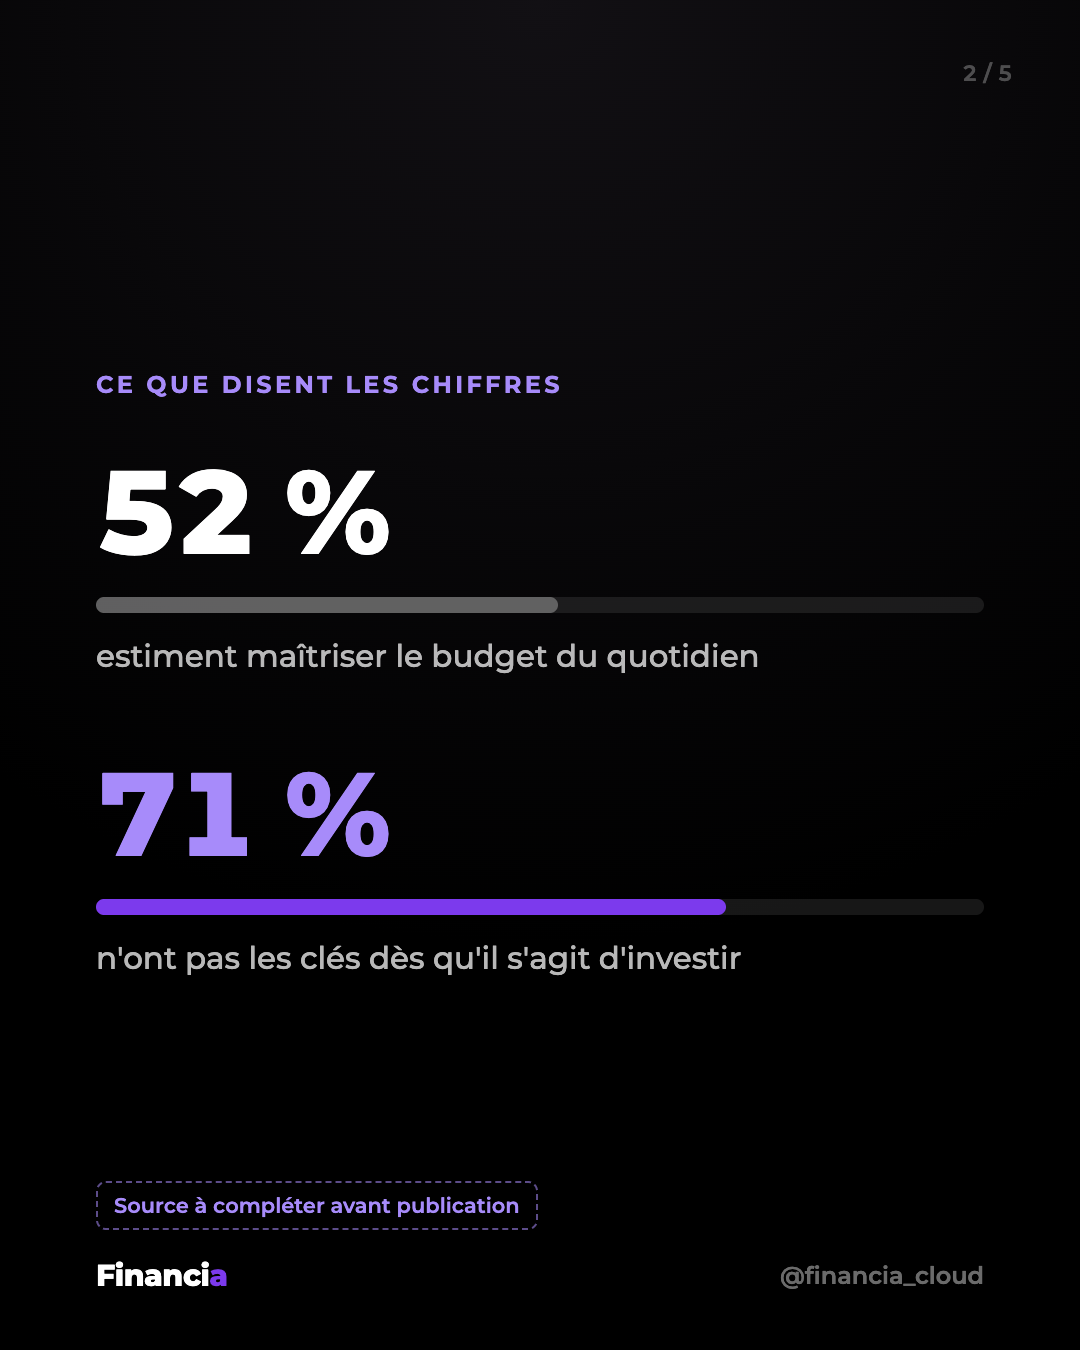
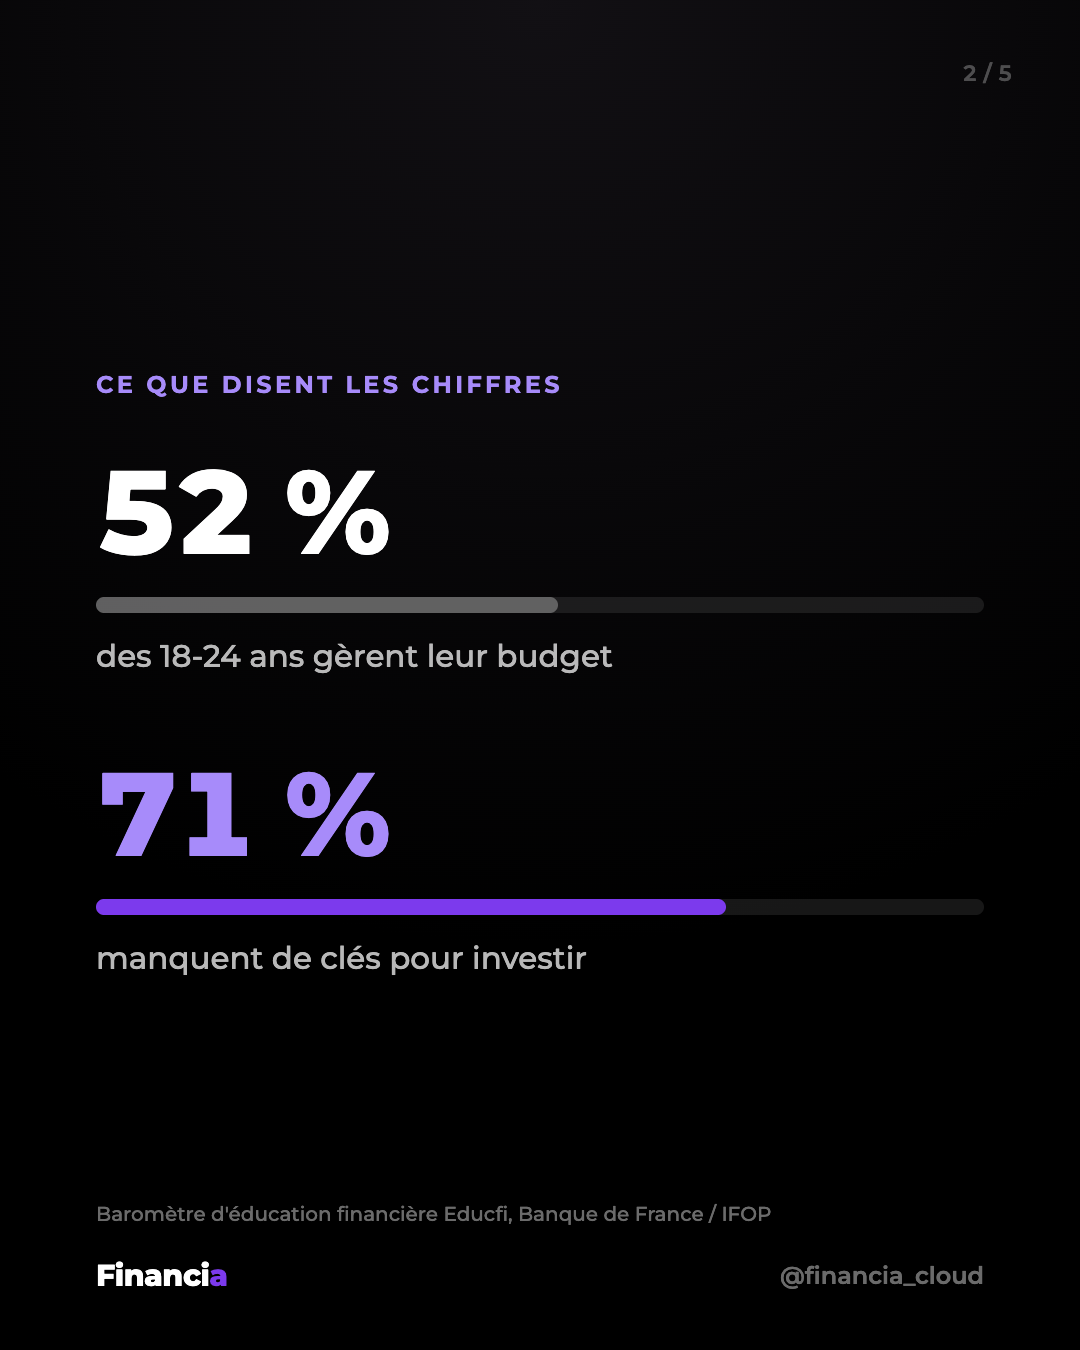
content: source de la slide 2 du carrousel Educfi
Le cartouche « Source à compléter avant publication » est remplacé par
l'attribution fournie : Baromètre d'éducation financière Educfi, Banque
de France / IFOP.

Les libellés reprennent la formulation retenue et précisent la tranche
d'âge, absente jusque-là : « des 18-24 ans gèrent leur budget » et
« manquent de clés pour investir ».

Le cadre violet en pointillés, qui signalait une donnée non sourcée,
laisse place à une ligne de source discrète en pied de slide.

diff --git a/public/slides/educfi_slide2.html b/public/slides/educfi_slide2.html
@@ -37,8 +37,8 @@
   .jauge i { display: block; height: 100%; border-radius: 8px; background: rgba(255,255,255,.30); }
   .jauge i.alerte { background: #7C3AED; }
   .etiquette { font-size: 31px; font-weight: 500; line-height: 1.4; color: rgba(255,255,255,.72); }
-  .source { position: absolute; bottom: 120px; left: 96px; font-size: 21px; font-weight: 600;
-    color: #A78BFA; border: 2px dashed rgba(167,139,250,.55); border-radius: 10px; padding: 10px 16px; }
+  .source { position: absolute; bottom: 122px; left: 96px; right: 96px; font-size: 20px;
+    font-weight: 500; line-height: 1.4; color: rgba(255,255,255,.42); }
 
 </style>
 </head>
@@ -50,15 +50,15 @@
     <div class="bloc">
       <div class="chiffre">52 %</div>
       <div class="jauge"><i style="width:52%"></i></div>
-      <div class="etiquette">estiment maîtriser le budget du quotidien</div>
+      <div class="etiquette">des 18-24 ans gèrent leur budget</div>
     </div>
     <div class="bloc">
       <div class="chiffre alerte">71 %</div>
       <div class="jauge"><i class="alerte" style="width:71%"></i></div>
-      <div class="etiquette">n'ont pas les clés dès qu'il s'agit d'investir</div>
+      <div class="etiquette">manquent de clés pour investir</div>
     </div>
   </div>
-  <p class="source">Source à compléter avant publication</p>
+  <p class="source">Baromètre d'éducation financière Educfi, Banque de France / IFOP</p>
 
   <div class="footer"><div class="logo">Financi<span>a</span></div><div class="handle">@financia_cloud</div></div>
 </div></div></body></html>
